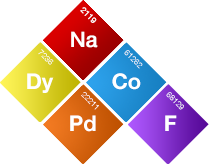
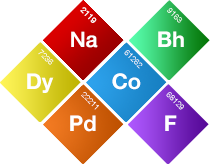
iOS Suite

diff --git a/README.md b/README.md
@@ -3,7 +3,7 @@
 > An overview of all the iOS (Swift) related repositories within our 'own' periodic system
 
 
-![Period system](Assets/system.png?01)
+![Period system](Assets/system.png?002)
 
 
 **🤷♂ Why on earth do you use the periodic system?**   
@@ -41,3 +41,9 @@ Just because.
 > A small UIView helper to create simple linear gradients.
 
 🔗 **[e-sites/Fluorine](https://github.com/e-sites/Fluorine)**
+
+
+## `Bh` → Bohrium
+> A small helper class to benchmark specific code parts at runtime
+
+🔗 **[e-sites/Bohrium](https://github.com/e-sites/Bohrium)**
